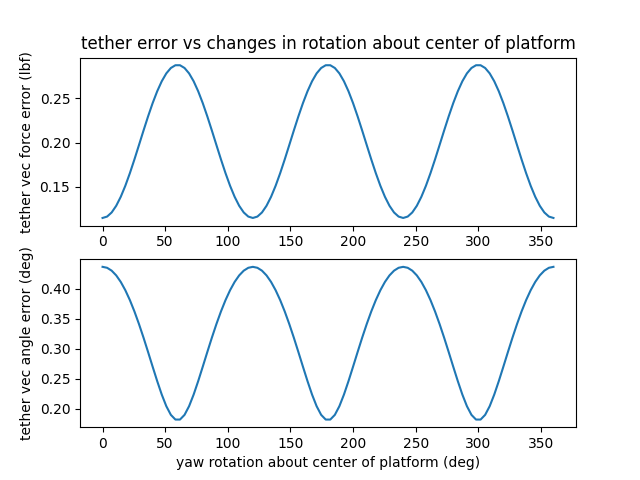
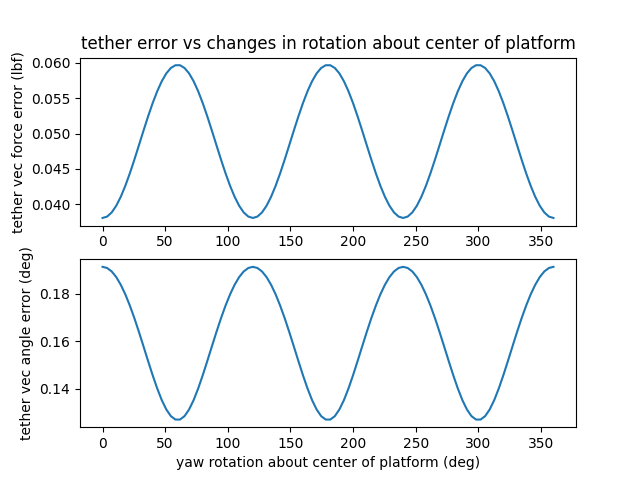
updates to 2 tether file

diff --git a/modeling/dynamic_models/Dynamic_model_3teth_revB.py b/modeling/dynamic_models/Dynamic_model_3teth_revB.py
@@ -340,12 +340,12 @@ def main():
         
         # calculate random tether errors for each time step ranging from -1in to 1in
         if (i != 0):
-            err_teth_one_vec[i] = random.uniform(-teth_length_error_range,teth_length_error_range)
-            err_teth_two_vec[i] = random.uniform(-teth_length_error_range,teth_length_error_range)
-            err_teth_three_vec[i] = random.uniform(-teth_length_error_range,teth_length_error_range)
-            # err_teth_one_vec[i] = 0
-            # err_teth_two_vec[i] = 0
-            # err_teth_three_vec[i] = 0
+            # err_teth_one_vec[i] = random.uniform(-teth_length_error_range,teth_length_error_range)
+            # err_teth_two_vec[i] = random.uniform(-teth_length_error_range,teth_length_error_range)
+            # err_teth_three_vec[i] = random.uniform(-teth_length_error_range,teth_length_error_range)
+            err_teth_one_vec[i] = 0
+            err_teth_two_vec[i] = 0
+            err_teth_three_vec[i] = 0
             apex = calculate_apex(teth_lengths[0]+err_teth_one_vec[i], teth_lengths[1]+err_teth_two_vec[i], teth_lengths[2]+err_teth_three_vec[i], teth_anchor, offset)
         else:
             err_teth_one_vec[i] = 0
@@ -379,7 +379,7 @@ def main():
                 f = ((f_new - f_old) / reaction_t) * (t1+reaction_t) - ((f_new - f_old) / reaction_t) * t1 + f_old
 
         # Calculate errors and torques
-        f_err, ang_err, tether1_vec[i], tether2_vec[i], tether3_vec[i] = calculate_tether_error(COM, f, mass, teth_anchor, offset)
+        f_err, ang_err, tether1_vec[i], tether2_vec[i], tether3_vec[i] = calculate_tether_error(apex, f, mass, teth_anchor, offset)
 
         # Store results
         apex_error[i] = np.linalg.norm(COM-apex)

diff --git a/modeling/dynamic_models/Dynamic_model_2teth.py b/modeling/dynamic_models/Dynamic_model_2teth.py
@@ -126,17 +126,32 @@ def plot_simulation_results(time_vec, positions, angles, f_errors, ang_errors, t
     ax3.legend()
 
     # Force error plot
-    ax4 = fig.add_subplot(324)
+    fig4 = plt.figure(figsize=(10,8))
+    ax4 = fig4.add_subplot(111)
     ax4.plot(time_vec, f_errors)
+    ax4.axhline(y=5, color='r', linestyle=':', label='Max Allowable Error (5 lbf)', linewidth = 3)
+    ax4.set_xlabel('Time (s)')
     ax4.set_ylabel('Force Error (lbf)')
     ax4.set_title('Tether Force Error')
+    ax4.grid(True)
+    ax4.legend()
+    ax4.set_ylim([0, 8])
+    plt.tight_layout()
+    plt.savefig('plots/force_error_2teth.png')
 
     # Angular error plot
-    ax5 = fig.add_subplot(325)
+    fig5 = plt.figure(figsize=(10,8))
+    ax5 = fig5.add_subplot(111)
     ax5.plot(time_vec, ang_errors)
+    ax5.axhline(y=2, color='r', linestyle=':', label='Max Allowable Error (2 deg)', linewidth = 3)
     ax5.set_xlabel('Time (s)')
     ax5.set_ylabel('Angular Error (deg)')
     ax5.set_title('Tether Angular Error')
+    ax5.grid(True)
+    ax5.legend()
+    ax5.set_ylim([0, 4])
+    plt.tight_layout()
+    plt.savefig('plots/angular_error_2teth.png')
 
     # Torque magnitude plot
     ax6 = fig.add_subplot(326)
@@ -242,7 +257,7 @@ def main():
                 f = ((f_new - f_old) / reaction_t) * (t1 + reaction_t) - ((f_new - f_old) / reaction_t) * t1 + f_old
 
         # Calculate errors and torques
-        f_err, ang_err, tether1_vec[i], tether2_vec[i] = calculate_tether_error(COM, f, mass, teth_anchor, offset)
+        f_err, ang_err, tether1_vec[i], tether2_vec[i] = calculate_tether_error(apex, f, mass, teth_anchor, offset)
 
         # Store results
         f_errors[i] = f_err

diff --git a/modeling/dynamic_models/Parameters.py b/modeling/dynamic_models/Parameters.py
@@ -20,4 +20,5 @@ class Parameters:
               [-r*np.cos(135*np.pi/180), -r*np.sin(135*np.pi/180), 0.0]]
     dt = 0.001
     force_update_rate = 0.002
-    reaction_t = 0.01
+    reaction_t = 0.02
+    
